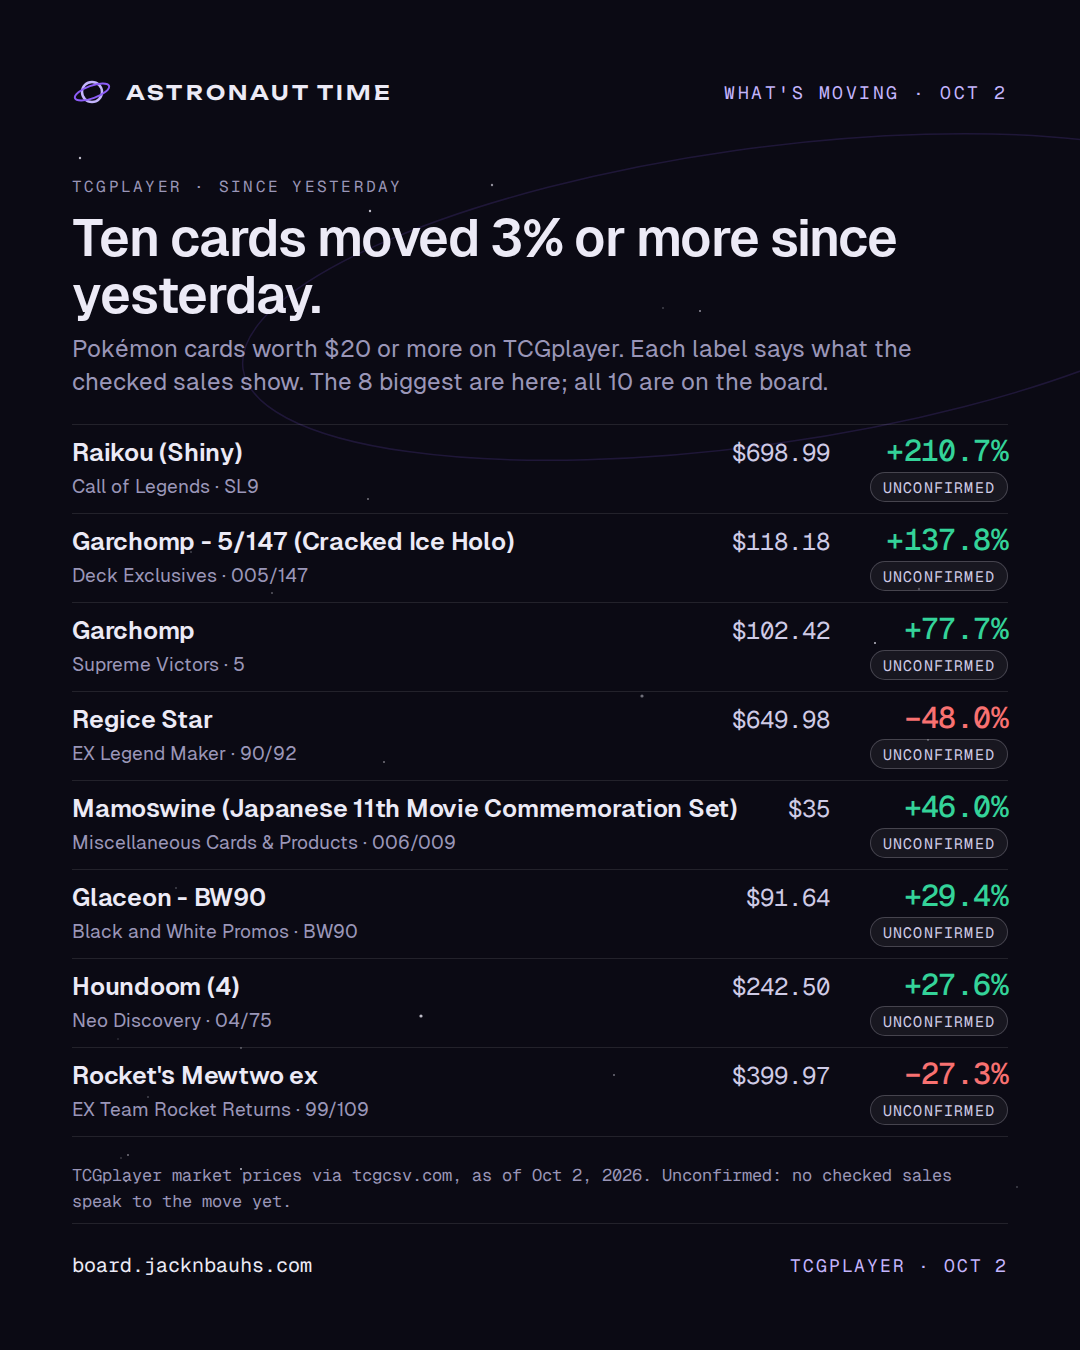
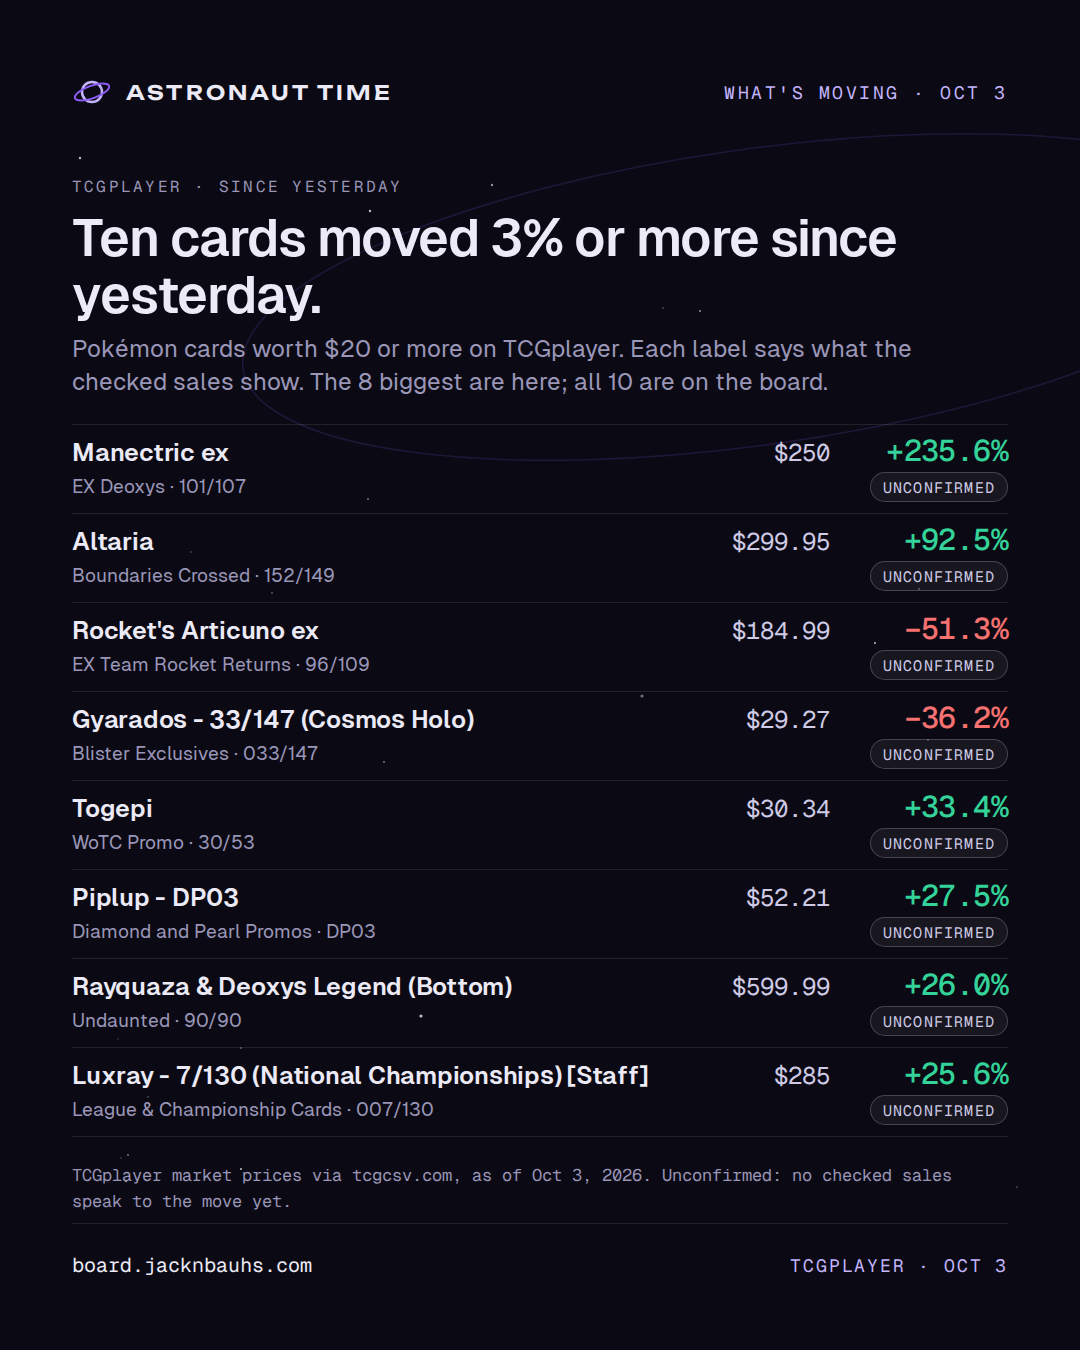
Share kit: render 2026-10-04

diff --git a/card.html b/card.html
@@ -10,14 +10,14 @@
 <meta property="og:url" content="https://board.jacknbauhs.com/card.html">
 <meta property="og:type" content="website">
 <meta property="og:site_name" content="Astronaut Time">
-<meta property="og:image" content="https://board.jacknbauhs.com/assets/og.png?v=2026-10-03">
+<meta property="og:image" content="https://board.jacknbauhs.com/assets/og.png?v=2026-10-04">
 <meta property="og:image:width" content="1200">
 <meta property="og:image:height" content="630">
 <meta property="og:image:alt" content="Mission Control by Astronaut Time: the card market, with the fake sales taken out.">
 <meta name="twitter:card" content="summary_large_image">
 <meta name="twitter:title" content="Card · Mission Control · Astronaut Time">
 <meta name="twitter:description" content="The card market, with the fake sales taken out.">
-<meta name="twitter:image" content="https://board.jacknbauhs.com/assets/og.png?v=2026-10-03">
+<meta name="twitter:image" content="https://board.jacknbauhs.com/assets/og.png?v=2026-10-04">
 <meta name="theme-color" content="#0B0A14">
 <link rel="icon" href="assets/favicon.svg" type="image/svg+xml">
 <link rel="preconnect" href="https://fonts.googleapis.com">

diff --git a/404.html b/404.html
@@ -10,14 +10,14 @@
 <meta property="og:url" content="https://board.jacknbauhs.com/">
 <meta property="og:type" content="website">
 <meta property="og:site_name" content="Astronaut Time">
-<meta property="og:image" content="https://board.jacknbauhs.com/assets/og.png?v=2026-10-03">
+<meta property="og:image" content="https://board.jacknbauhs.com/assets/og.png?v=2026-10-04">
 <meta property="og:image:width" content="1200">
 <meta property="og:image:height" content="630">
 <meta property="og:image:alt" content="Mission Control by Astronaut Time: the card market, with the fake sales taken out.">
 <meta name="twitter:card" content="summary_large_image">
 <meta name="twitter:title" content="Mission Control · Astronaut Time">
 <meta name="twitter:description" content="The card market, with the fake sales taken out.">
-<meta name="twitter:image" content="https://board.jacknbauhs.com/assets/og.png?v=2026-10-03">
+<meta name="twitter:image" content="https://board.jacknbauhs.com/assets/og.png?v=2026-10-04">
 <meta name="theme-color" content="#0B0A14">
 <link rel="icon" href="/assets/favicon.svg" type="image/svg+xml">
 <link rel="preconnect" href="https://fonts.googleapis.com">

diff --git a/index.html b/index.html
@@ -10,14 +10,14 @@
 <meta property="og:url" content="https://board.jacknbauhs.com/">
 <meta property="og:type" content="website">
 <meta property="og:site_name" content="Astronaut Time">
-<meta property="og:image" content="https://board.jacknbauhs.com/assets/og.png?v=2026-10-03">
+<meta property="og:image" content="https://board.jacknbauhs.com/assets/og.png?v=2026-10-04">
 <meta property="og:image:width" content="1200">
 <meta property="og:image:height" content="630">
 <meta property="og:image:alt" content="Mission Control by Astronaut Time: the card market, with the fake sales taken out.">
 <meta name="twitter:card" content="summary_large_image">
 <meta name="twitter:title" content="Mission Control · Astronaut Time">
 <meta name="twitter:description" content="The card market, with the fake sales taken out.">
-<meta name="twitter:image" content="https://board.jacknbauhs.com/assets/og.png?v=2026-10-03">
+<meta name="twitter:image" content="https://board.jacknbauhs.com/assets/og.png?v=2026-10-04">
 <meta name="theme-color" content="#0B0A14">
 <link rel="icon" href="assets/favicon.svg" type="image/svg+xml">
 <link rel="preconnect" href="https://fonts.googleapis.com">

diff --git a/share/out/captions.md b/share/out/captions.md
@@ -1,4 +1,4 @@
-# Captions, board data of 2026-10-03
+# Captions, board data of 2026-10-04
 
 One block per image. Caption first, alt text second. Plain facts, the source and the board link; nothing here is a buy.
 
@@ -94,6 +94,6 @@ Alt: Three calls on the record. Number 001: The 30th Celebration Booster Bundle'
 
 ## moving-2026-W40.png
 
-What's moving on TCGplayer, as of Oct 2, 2026. Ten cards moved 3% or more since yesterday. Raikou (Shiny) (Call of Legends · SL9): $698.99, +210.7%, unconfirmed. Garchomp - 5/147 (Cracked Ice Holo) (Deck Exclusives · 005/147): $118.18, +137.8%, unconfirmed. Garchomp (Supreme Victors · 5): $102.42, +77.7%, unconfirmed. Regice Star (EX Legend Maker · 90/92): $649.98, −48.0%, unconfirmed. Mamoswine (Japanese 11th Movie Commemoration Set) (Miscellaneous Cards & Products · 006/009): $35, +46.0%, unconfirmed. Glaceon - BW90 (Black and White Promos · BW90): $91.64, +29.4%, unconfirmed. Houndoom (4) (Neo Discovery · 04/75): $242.50, +27.6%, unconfirmed. Rocket's Mewtwo ex (EX Team Rocket Returns · 99/109): $399.97, −27.3%, unconfirmed. Unconfirmed: no checked sales speak to the move yet. Source: TCGplayer market prices via tcgcsv.com, as of Oct 2, 2026. board.jacknbauhs.com
+What's moving on TCGplayer, as of Oct 3, 2026. Ten cards moved 3% or more since yesterday. Manectric ex (EX Deoxys · 101/107): $250, +235.6%, unconfirmed. Altaria (Boundaries Crossed · 152/149): $299.95, +92.5%, unconfirmed. Rocket's Articuno ex (EX Team Rocket Returns · 96/109): $184.99, −51.3%, unconfirmed. Gyarados - 33/147 (Cosmos Holo) (Blister Exclusives · 033/147): $29.27, −36.2%, unconfirmed. Togepi (WoTC Promo · 30/53): $30.34, +33.4%, unconfirmed. Piplup - DP03 (Diamond and Pearl Promos · DP03): $52.21, +27.5%, unconfirmed. Rayquaza & Deoxys Legend (Bottom) (Undaunted · 90/90): $599.99, +26.0%, unconfirmed. Luxray - 7/130 (National Championships) [Staff] (League & Championship Cards · 007/130): $285, +25.6%, unconfirmed. Unconfirmed: no checked sales speak to the move yet. Source: TCGplayer market prices via tcgcsv.com, as of Oct 3, 2026. board.jacknbauhs.com
 
 Alt: What's moving: the 8 biggest TCGplayer moves since yesterday, each with its market price, its change and the label for what checked sales show.
